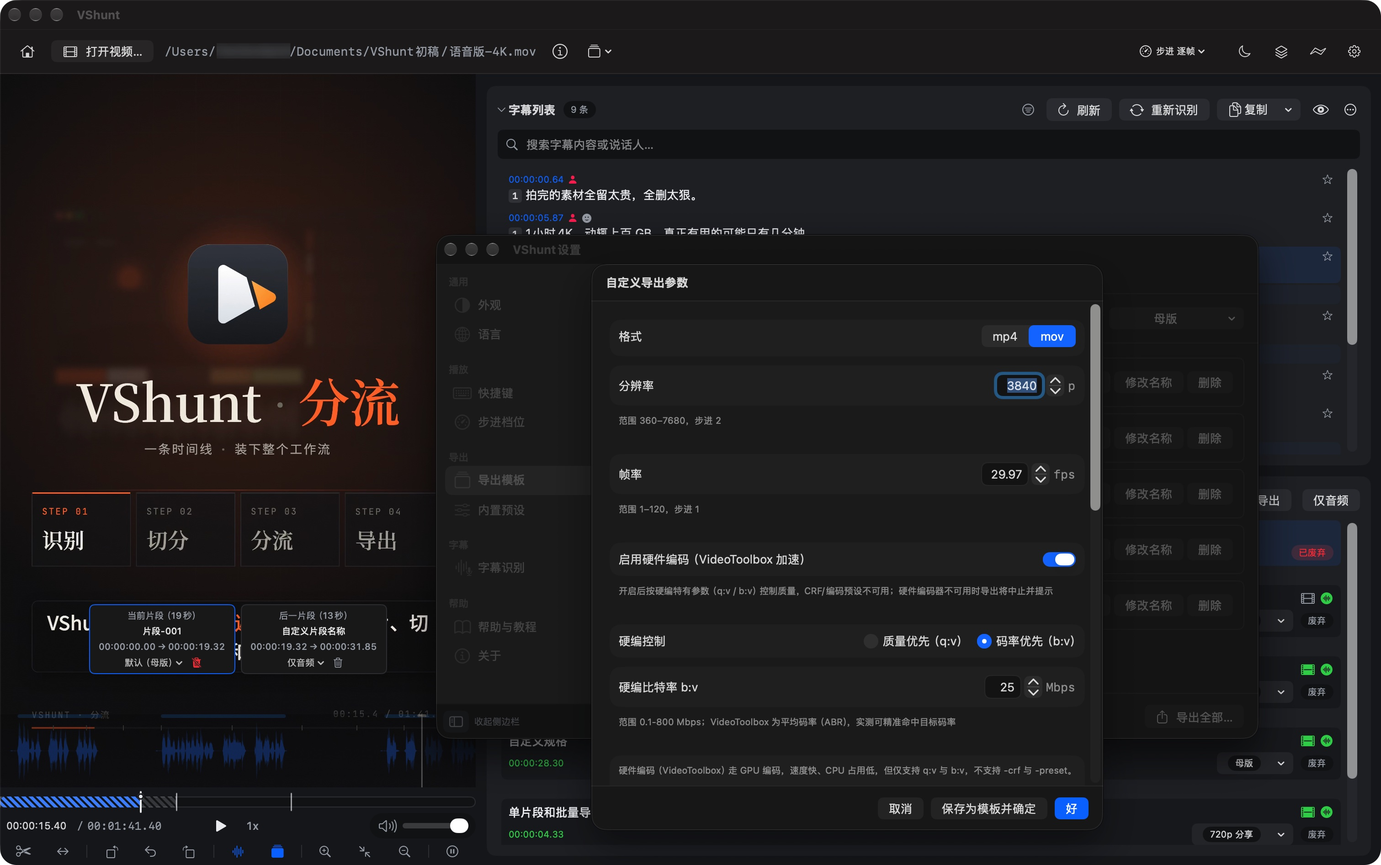
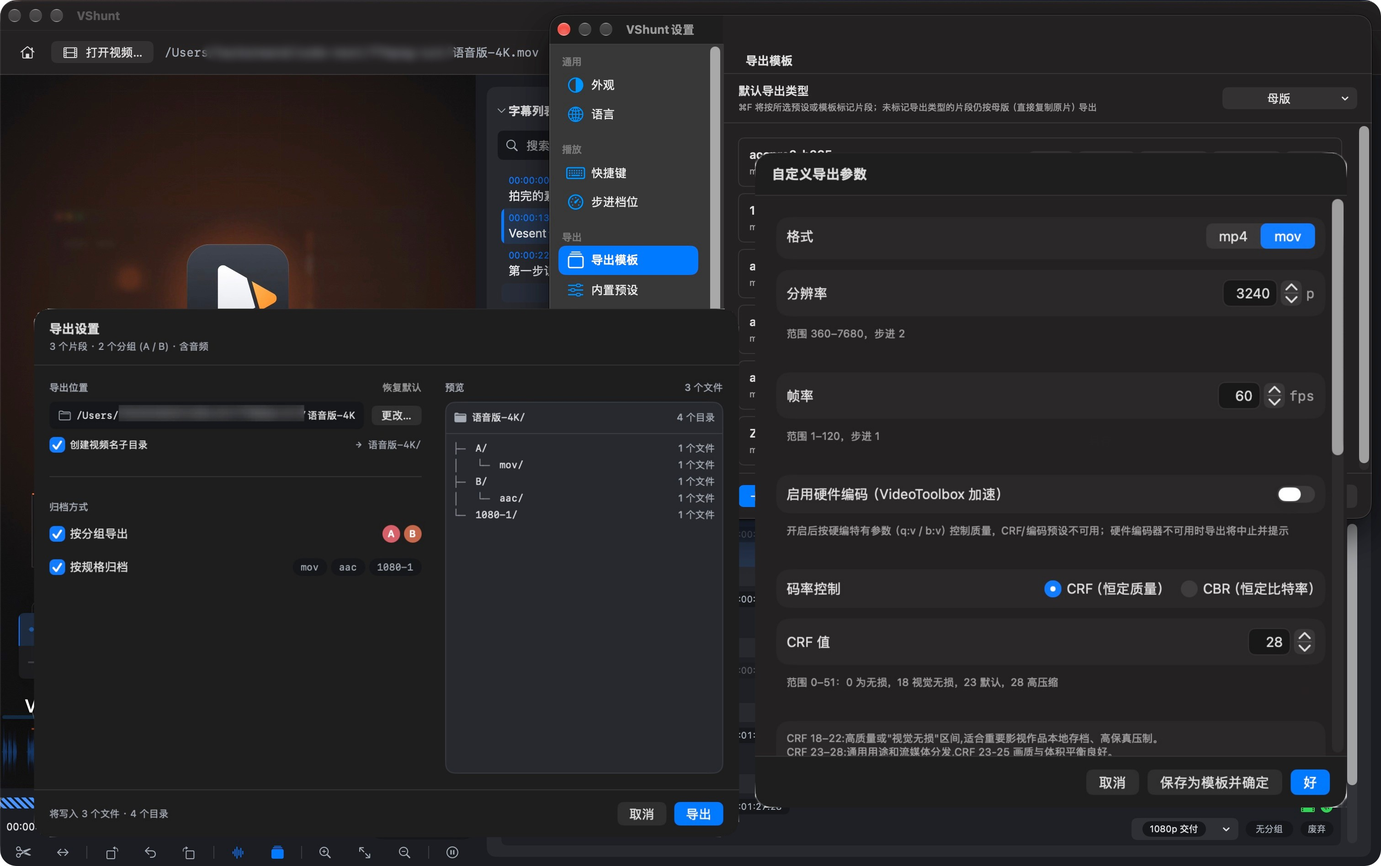
docs: 新增分组归档功能说明并更新文档内容

diff --git a/index.html b/index.html
@@ -4,17 +4,17 @@
 <meta charset="utf-8">
 <meta name="viewport" content="width=device-width, initial-scale=1">
 <title>VShunt 分流 — 视频无损剪辑与素材分流，批量剪辑导出与压缩，节省存储空间</title>
-<meta name="description" content="VShunt 是原生视频无损剪辑与素材分流工具：一条时间线完成选片、切分，片段可按原片无损复制（不重新编码）、压缩到 4K/1080p 或仅提取音频，一次批量导出后即可放心删除原片，节省硬盘空间。支持字幕识别、时间线波形、自定义转码参数与导出模板，下载即用。">
-<meta name="keywords" content="无损剪辑,无损剪切,视频无损剪辑,不重新编码,视频素材分流,批量剪辑,批量导出,视频压缩,提取音频,删除原片,节省硬盘空间,视频剪辑工具,ffmpeg 图形界面,字幕识别">
+<meta name="description" content="VShunt 是原生视频无损剪辑与素材分流工具：一条时间线完成选片、切分，片段可按原片无损复制（不重新编码）、压缩到 4K/1080p 或仅提取音频。导出前先确认位置，可按 A–Z 分组、按规格自动建目录，一次批量导出后即可放心删除原片，节省硬盘空间。支持字幕识别、时间线波形、自定义转码参数与导出模板，下载即用。">
+<meta name="keywords" content="无损剪辑,无损剪切,视频无损剪辑,不重新编码,视频素材分流,批量剪辑,批量导出,视频压缩,提取音频,删除原片,节省硬盘空间,视频剪辑工具,ffmpeg 图形界面,字幕识别,导出归档,分组导出,自定义导出目录">
 <meta name="theme-color" content="#0c0c0d">
 <meta property="og:type" content="website">
 <meta property="og:site_name" content="VShunt 分流">
 <meta property="og:title" content="VShunt 分流 — 视频无损剪辑与素材分流，按需压缩、批量导出省存储">
-<meta property="og:description" content="原生无损剪辑工具：一条时间线完成选片、切分、转码与批量导出，原片直接复制不重新编码，原片即可放心删除，只为好片留空间。">
+<meta property="og:description" content="原生无损剪辑工具：一条时间线完成选片、切分、转码与批量导出，原片直接复制不重新编码；导出前确认位置，按 A–Z 分组与规格自动归档，原片即可放心删除，只为好片留空间。">
 <meta property="og:image" content="apple-touch-icon.png">
 <meta name="twitter:card" content="summary_large_image">
 <meta name="twitter:title" content="VShunt 分流 — 视频无损剪辑与素材分流，按需压缩、批量导出省存储">
-<meta name="twitter:description" content="原生无损剪辑工具：一条时间线完成选片、切分、转码与批量导出，原片直接复制不重新编码，原片即可放心删除，只为好片留空间。">
+<meta name="twitter:description" content="原生无损剪辑工具：一条时间线完成选片、切分、转码与批量导出，原片直接复制不重新编码；导出前确认位置，按 A–Z 分组与规格自动归档，原片即可放心删除，只为好片留空间。">
 <link rel="icon" href="favicon.ico" sizes="any">
 <link rel="apple-touch-icon" href="apple-touch-icon.png">
 <script>document.documentElement.className += ' js';</script>
@@ -382,6 +382,73 @@
   .tpl-card.new.on{opacity:1;transform:none;border-color:var(--mint)}
   .tpl-note{margin-top:18px;border-left:2px solid var(--vermilion);padding-left:12px;color:var(--bone-dim);font-size:12px}
   @media(max-width:860px){.export-grid{grid-template-columns:1fr}}
+
+  /* archive: export options + A-Z groups + spec folders */
+  .archive-grid{display:grid;grid-template-columns:1.16fr .84fr;gap:20px;align-items:stretch}
+  .archive-mock{border:1px solid var(--line);background:linear-gradient(180deg,#121214,#0d0d0f);display:flex;flex-direction:column;position:relative;overflow:hidden}
+  .archive-mock::before{content:"";position:absolute;inset:0;pointer-events:none;background:radial-gradient(90% 60% at 100% 0%,rgba(255,90,43,.08),transparent 60%)}
+  .am-bar{display:flex;justify-content:space-between;align-items:flex-end;gap:14px;padding:15px 18px 13px;border-bottom:1px solid var(--line-soft);position:relative;z-index:1}
+  .am-title{font-family:var(--serif);font-size:16px;font-weight:600;line-height:1.2}
+  .am-sum{font-family:var(--mono);font-size:8px;letter-spacing:.05em;color:var(--bone-faint);margin-top:5px}
+  .am-badge{font-family:var(--mono);font-size:8px;letter-spacing:.1em;color:var(--bone-faint);border:1px solid var(--line);padding:3px 6px;flex:none}
+  .am-body{display:grid;grid-template-columns:1.1fr .9fr;flex:1;position:relative;z-index:1}
+  .am-left{padding:14px 15px;border-right:1px solid var(--line-soft);display:flex;flex-direction:column;gap:14px;min-width:0}
+  .am-label{display:flex;justify-content:space-between;align-items:center;gap:8px;font-family:var(--mono);font-size:8px;letter-spacing:.12em;color:var(--bone-faint);margin-bottom:7px;text-transform:uppercase}
+  .am-link{color:var(--vermilion);letter-spacing:.04em;flex:none}
+  .am-path{display:flex;align-items:center;gap:6px;padding:7px 8px;border:1px solid var(--line);background:#141416;font-family:var(--mono);font-size:8.5px;color:var(--bone-dim);min-width:0}
+  .am-path .pth{overflow:hidden;text-overflow:ellipsis;white-space:nowrap}
+  .am-path b{margin-left:auto;flex:none;font-weight:400;font-size:7.5px;color:var(--vermilion);border:1px solid rgba(255,90,43,.4);padding:2px 5px;letter-spacing:.04em}
+  .am-row{display:flex;align-items:center;gap:7px;font-size:10px;color:var(--bone-dim);padding:5px 0;min-width:0}
+  .am-check{width:11px;height:11px;flex:none;border:1px solid var(--line);display:grid;place-items:center;font-size:7px;color:#140b08;line-height:1}
+  .am-check.on{background:var(--vermilion);border-color:var(--vermilion)}
+  .am-row .tail{margin-left:auto;flex:none;font-family:var(--mono);font-size:7.5px;color:var(--bone-faint)}
+  .am-chips{margin-left:auto;display:flex;gap:4px;flex:none}
+  .am-chip{width:16px;height:16px;display:grid;place-items:center;font-family:var(--mono);font-size:7.5px;border:1px solid var(--line);color:var(--bone-dim)}
+  .am-chip.a{color:#ff7a5c;border-color:rgba(255,122,92,.5);background:rgba(255,122,92,.1)}
+  .am-chip.b{color:#57cfd6;border-color:rgba(87,207,214,.5);background:rgba(87,207,214,.1)}
+  .am-spec{margin-left:auto;display:flex;gap:4px;flex:none;flex-wrap:wrap;justify-content:flex-end}
+  .am-spec span{font-family:var(--mono);font-size:7.5px;color:var(--bone-dim);border:1px solid var(--line);padding:2px 5px;letter-spacing:.02em}
+  .am-hint{margin-top:auto;padding-top:8px;border-top:1px solid var(--line-soft);font-size:8px;line-height:1.65;color:var(--bone-faint)}
+  .am-preview{padding:14px 15px;background:#0f0f11;display:flex;flex-direction:column;gap:9px;min-width:0}
+  .am-tree{display:flex;flex-direction:column;gap:3px;font-family:var(--mono);font-size:8.5px;color:var(--bone-dim)}
+  .am-tree .trow{display:flex;align-items:center;gap:5px;min-width:0;white-space:nowrap}
+  .am-tree .nm{overflow:hidden;text-overflow:ellipsis}
+  .am-tree .ct{margin-left:auto;flex:none;color:var(--bone-faint);font-size:7.5px}
+  .am-tree .root{color:var(--bone)}
+  .am-tree .d1{padding-left:11px}
+  .am-tree .d2{padding-left:22px}
+  .am-tree .d1::before,.am-tree .d2::before{content:"▸";color:var(--bone-faint);font-size:7px}
+  .am-tree .d1::before{content:"▾"}
+  .am-note{margin-top:auto;padding-top:7px;border-top:1px solid var(--line-soft);font-size:8px;line-height:1.6;color:var(--bone-faint)}
+  .am-foot{display:flex;justify-content:space-between;align-items:center;gap:10px;padding:11px 16px;border-top:1px solid var(--line-soft);background:#0c0c0d;position:relative;z-index:1}
+  .am-count{font-family:var(--mono);font-size:8px;letter-spacing:.05em;color:var(--bone-faint)}
+  .am-btns{display:flex;gap:6px;flex:none}
+  .am-btn{font-family:var(--mono);font-size:8px;letter-spacing:.06em;padding:5px 9px;border:1px solid var(--line);color:var(--bone-dim)}
+  .am-btn.on{background:var(--vermilion);border-color:var(--vermilion);color:#140b08}
+  .archive-points{display:flex;flex-direction:column;gap:1px;background:var(--line-soft);border:1px solid var(--line-soft)}
+  .archive-point{background:var(--ink);padding:20px 22px;flex:1;transition:background .25s}
+  .archive-point:hover{background:#121214}
+  .archive-point .no{font-family:var(--mono);font-size:9px;letter-spacing:.14em;color:var(--vermilion)}
+  .archive-point h3{font-family:var(--serif);font-size:19px;margin:7px 0 7px;font-weight:600;line-height:1.35}
+  .archive-point p{margin:0;font-size:12.5px;line-height:1.7;color:var(--bone-dim)}
+  .archive-point code{font-family:var(--mono);font-size:.86em;color:var(--bone);background:var(--ink-3);border:1px solid var(--line-soft);padding:1px 4px;white-space:nowrap}
+  .group-strip{margin-top:20px;border:1px solid var(--line);background:var(--ink-2);padding:16px 20px;display:flex;align-items:center;gap:5px;flex-wrap:wrap}
+  .gs-label{font-family:var(--mono);font-size:8.5px;letter-spacing:.14em;color:var(--bone-faint);margin-right:8px;flex:none}
+  .gchip{width:25px;height:25px;border-radius:3px;display:grid;place-items:center;font-family:var(--mono);font-size:10px;border:1px solid;flex:none}
+  .gs-note{font-size:11px;line-height:1.6;color:var(--bone-faint);margin-left:auto;flex:none;max-width:340px;padding-left:14px}
+  @media(max-width:980px){
+    .archive-grid{grid-template-columns:1fr}
+    .archive-points{flex-direction:row}
+    .archive-point{flex:1 1 0}
+  }
+  @media(max-width:720px){
+    .archive-points{flex-direction:column}
+    .gs-note{margin-left:0;flex-basis:100%;max-width:none;padding-left:0}
+  }
+  @media(max-width:560px){
+    .am-body{grid-template-columns:1fr}
+    .am-left{border-right:0;border-bottom:1px solid var(--line-soft)}
+  }
   /* ---------- sections ---------- */
   section{padding:110px 0;border-bottom:1px solid var(--line-soft)}
   .sec-head{display:grid;grid-template-columns:148px 1fr;gap:24px;margin-bottom:64px;align-items:start}
@@ -648,6 +715,7 @@
   <div class="navlinks" id="navLinks">
     <a href="#workflow">工作流</a>
     <a href="#export">导出</a>
+    <a href="#archive">归档</a>
     <a href="#highlights">亮点</a>
     <a href="#subtitle">字幕</a>
     <a href="#faq">常见问题</a>
@@ -754,8 +822,8 @@
 
 <div class="marquee" aria-hidden="true">
   <div class="marquee-inner">
-    <span>帧级切分</span><i>/</i><span>时间线 + 波形</span><i>/</i><span>双后端字幕</span><i>/</i><span>批量代理</span><i>/</i><span>导出模板</span><i>/</i><span>按需分流</span><i>/</i><span>多语言支持</span><i>/</i>
-    <span>帧级切分</span><i>/</i><span>时间线 + 波形</span><i>/</i><span>双后端字幕</span><i>/</i><span>批量代理</span><i>/</i><span>导出模板</span><i>/</i><span>按需分流</span><i>/</i><span>多语言支持</span><i>/</i>
+    <span>帧级切分</span><i>/</i><span>时间线 + 波形</span><i>/</i><span>双后端字幕</span><i>/</i><span>批量代理</span><i>/</i><span>导出模板</span><i>/</i><span>分组归档</span><i>/</i><span>按需分流</span><i>/</i><span>多语言支持</span><i>/</i>
+    <span>帧级切分</span><i>/</i><span>时间线 + 波形</span><i>/</i><span>双后端字幕</span><i>/</i><span>批量代理</span><i>/</i><span>导出模板</span><i>/</i><span>分组归档</span><i>/</i><span>按需分流</span><i>/</i><span>多语言支持</span><i>/</i>
   </div>
 </div>
 
@@ -931,10 +999,117 @@
   </div>
 </section>
 
+<section id="archive">
+  <div class="wrap">
+    <div class="sec-head reveal">
+      <div class="sec-no">04 / ARCHIVE</div>
+      <div>
+        <h2>导完就归好，<br>交付不用再整理。</h2>
+        <p>导出前先看一眼最终目录：这次会生成哪些文件夹、每个文件夹放几个文件，确认无误再开始。片段可以按 A–Z 分组，导出时同组自动收进同一个文件夹；不同规格也各归各的子目录，导完不用再手动搬。</p>
+      </div>
+    </div>
+
+    <div class="archive-grid reveal">
+      <div class="archive-mock" aria-label="导出设置弹框示意">
+        <div class="am-bar">
+          <div>
+            <div class="am-title">导出设置</div>
+            <div class="am-sum">19 个片段 · 2 个分组（A / B）· 含音频</div>
+          </div>
+          <span class="am-badge">EXPORT</span>
+        </div>
+        <div class="am-body">
+          <div class="am-left">
+            <div>
+              <div class="am-label"><span>导出位置</span><span class="am-link">恢复默认</span></div>
+              <div class="am-path"><span class="pth">/Video/shoot</span><b>更改…</b></div>
+              <div class="am-row"><span class="am-check on">✓</span>创建视频名子目录<span class="tail">→ shoot/</span></div>
+            </div>
+            <div>
+              <div class="am-label"><span>归档方式</span><span>按需开启</span></div>
+              <div class="am-row"><span class="am-check on">✓</span>按分组导出<span class="am-chips"><span class="am-chip a">A</span><span class="am-chip b">B</span></span></div>
+              <div class="am-row"><span class="am-check on">✓</span>按规格归档<span class="am-spec"><span>mp4</span><span>2160-3</span><span>1080</span></span></div>
+            </div>
+            <div class="am-hint">分组开关会按当前内容自动判断；其它设置本次使用期间记住。</div>
+          </div>
+          <div class="am-preview">
+            <div class="am-label"><span>预览</span><span>19 个文件</span></div>
+            <div class="am-tree">
+              <div class="trow root"><span class="nm">shoot/</span><span class="ct">6 个目录</span></div>
+              <div class="trow d1"><span class="nm">A/</span><span class="ct">12</span></div>
+              <div class="trow d2"><span class="nm">2160-3/</span><span class="ct">6</span></div>
+              <div class="trow d2"><span class="nm">1080/</span><span class="ct">6</span></div>
+              <div class="trow d1"><span class="nm">B/</span><span class="ct">7</span></div>
+              <div class="trow d2"><span class="nm">1080/</span><span class="ct">4</span></div>
+              <div class="trow d2"><span class="nm">mp4/</span><span class="ct">3</span></div>
+            </div>
+            <div class="am-note">按本次实际导出的内容统计，没分组的片段直接放在根目录。</div>
+          </div>
+        </div>
+        <div class="am-foot">
+          <span class="am-count">将写入 19 个文件 · 6 个目录</span>
+          <span class="am-btns"><span class="am-btn">取消</span><span class="am-btn on">导出</span></span>
+        </div>
+      </div>
+
+      <div class="archive-points">
+        <article class="archive-point">
+          <span class="no">A / 先确认，再导出</span>
+          <h3>导出前，位置先看清</h3>
+          <p>批量导出、单段视频、单段音频、整片音频提取，都会先问一句「存到哪、怎么分」。位置可以另选，也能一键恢复默认；这次选的目录，本次使用期间一直有效，不用每次重选。</p>
+        </article>
+        <article class="archive-point">
+          <span class="no">B / 26 个分组</span>
+          <h3>片段归组，字母即目录</h3>
+          <p>给片段贴个 A–Z 的字母标签，比如 A 是客户交付、B 是素材备份；点一下就能改，也能直接按字母键选。导出时同组自动进同一个文件夹，标签颜色和文件夹名都能改成自己习惯的叫法。</p>
+        </article>
+        <article class="archive-point">
+          <span class="no">C / 按规格归档</span>
+          <h3>每条规格，各进各的目录</h3>
+          <p>母版、音频和不同分辨率各建一个文件夹，名字按格式或分辨率来（比如 <code>2160-3</code>、<code>1080</code>），一眼知道里面是什么。改某个文件夹的名字，也不会把其它文件夹跟着改乱。</p>
+        </article>
+      </div>
+    </div>
+
+    <div class="group-strip reveal" aria-label="26 个分组色板示意">
+      <span class="gs-label">A – Z / 26 GROUPS</span>
+      <span class="gchip" style="color:#ff7a5c;border-color:rgba(255,122,92,.5);background:rgba(255,122,92,.1)">A</span>
+      <span class="gchip" style="color:#ffa14f;border-color:rgba(255,161,79,.5);background:rgba(255,161,79,.1)">B</span>
+      <span class="gchip" style="color:#f2c14e;border-color:rgba(242,193,78,.5);background:rgba(242,193,78,.1)">C</span>
+      <span class="gchip" style="color:#d7d76a;border-color:rgba(215,215,106,.5);background:rgba(215,215,106,.1)">D</span>
+      <span class="gchip" style="color:#b8e986;border-color:rgba(184,233,134,.5);background:rgba(184,233,134,.1)">E</span>
+      <span class="gchip" style="color:#86e0a0;border-color:rgba(134,224,160,.5);background:rgba(134,224,160,.1)">F</span>
+      <span class="gchip" style="color:#5fd6b5;border-color:rgba(95,214,181,.5);background:rgba(95,214,181,.1)">G</span>
+      <span class="gchip" style="color:#57cfd6;border-color:rgba(87,207,214,.5);background:rgba(87,207,214,.1)">H</span>
+      <span class="gchip" style="color:#58c0f0;border-color:rgba(88,192,240,.5);background:rgba(88,192,240,.1)">I</span>
+      <span class="gchip" style="color:#6aa9f7;border-color:rgba(106,169,247,.5);background:rgba(106,169,247,.1)">J</span>
+      <span class="gchip" style="color:#8b96f5;border-color:rgba(139,150,245,.5);background:rgba(139,150,245,.1)">K</span>
+      <span class="gchip" style="color:#a78bf0;border-color:rgba(167,139,240,.5);background:rgba(167,139,240,.1)">L</span>
+      <span class="gchip" style="color:#c48ae8;border-color:rgba(196,138,232,.5);background:rgba(196,138,232,.1)">M</span>
+      <span class="gchip" style="color:#e08ad6;border-color:rgba(224,138,214,.5);background:rgba(224,138,214,.1)">N</span>
+      <span class="gchip" style="color:#ef86bd;border-color:rgba(239,134,189,.5);background:rgba(239,134,189,.1)">O</span>
+      <span class="gchip" style="color:#f57fa4;border-color:rgba(245,127,164,.5);background:rgba(245,127,164,.1)">P</span>
+      <span class="gchip" style="color:#ff8f92;border-color:rgba(255,143,146,.5);background:rgba(255,143,146,.1)">Q</span>
+      <span class="gchip" style="color:#e9a06b;border-color:rgba(233,160,107,.5);background:rgba(233,160,107,.1)">R</span>
+      <span class="gchip" style="color:#c9b26b;border-color:rgba(201,178,107,.5);background:rgba(201,178,107,.1)">S</span>
+      <span class="gchip" style="color:#9fc46b;border-color:rgba(159,196,107,.5);background:rgba(159,196,107,.1)">T</span>
+      <span class="gchip" style="color:#7cc9a0;border-color:rgba(124,201,160,.5);background:rgba(124,201,160,.1)">U</span>
+      <span class="gchip" style="color:#7fc4c9;border-color:rgba(127,196,201,.5);background:rgba(127,196,201,.1)">V</span>
+      <span class="gchip" style="color:#7fb3e8;border-color:rgba(127,179,232,.5);background:rgba(127,179,232,.1)">W</span>
+      <span class="gchip" style="color:#a3a7ef;border-color:rgba(163,167,239,.5);background:rgba(163,167,239,.1)">X</span>
+      <span class="gchip" style="color:#c9a3e8;border-color:rgba(201,163,232,.5);background:rgba(201,163,232,.1)">Y</span>
+      <span class="gchip" style="color:#e3a0c7;border-color:rgba(227,160,199,.5);background:rgba(227,160,199,.1)">Z</span>
+      <span class="gs-note">颜色和文件夹名都能改；工程在 macOS 与 Windows 之间互传，也不会生成对方打不开的文件夹。</span>
+    </div>
+
+    <p class="problem-close reveal">同一段素材，不同用途落到不同目录：母版、4K、1080p、纯音频各归各位。导出完成的明细会标出分组字母，「打开目录」直达导出根目录——把整个文件夹交给对方，就是一次交付。</p>
+  </div>
+</section>
+
 <section id="highlights">
   <div class="wrap">
     <div class="sec-head reveal">
-      <div class="sec-no">04 / HIGHLIGHTS</div>
+      <div class="sec-no">05 / HIGHLIGHTS</div>
       <div>
         <h2>精确，不靠放大时间线。</h2>
         <p>筛片时要能快速浏览，剪辑时要能精确停顿。在 VShunt 里，每一步走多远由你决定：时间框按时、分、秒、厘秒逐段步进，画面上滚动则按档位步进；鼠标和键盘都有对应的操作。</p>
@@ -1019,7 +1194,7 @@
 <section class="perf-band" id="performance">
   <div class="wrap">
     <div class="perf-head reveal">
-      <div class="mono" style="color:var(--vermilion);margin-bottom:18px">05 / NATIVE · NOT A WEB VIEW</div>
+      <div class="mono" style="color:var(--vermilion);margin-bottom:18px">06 / NATIVE · NOT A WEB VIEW</div>
       <h2>不是套壳。<br>是原生播放器。</h2>
       <p>macOS 版直接跑在 AVFoundation 与 AppKit 上，Windows 版基于 libmpv 渲染，两端都不经过浏览器内核。拖动、逐帧、缩放都是原生级的手感，标准只有一个：像专业播放器一样跟手。</p>
     </div>
@@ -1047,7 +1222,7 @@
 <section id="features">
   <div class="wrap">
     <div class="sec-head reveal">
-      <div class="sec-no">06 / FEATURES</div>
+      <div class="sec-no">07 / FEATURES</div>
       <div>
         <h2>不是剪辑软件的<br>功能简化复刻版</h2>
         <p>而是把筛片、切分、导出一次跑完的粗剪工具：时间线、字幕、波形对着看，切分即分段；留下的按段设规格导出，删掉的不占硬盘。</p>
@@ -1061,7 +1236,7 @@
         <span class="num">F.01</span>
         <h3>分流只是起点，导出完全自由</h3>
         <p>分流不只决定留不留，还决定以什么规格留：需要后期空间的就源片复制，不涉及重新编码，画质无损，导出速度也极快；只需观看的压到合适的分辨率和码率；只要声音的单独提取音频。每一段都能单独设置规格、一次全部导出，无需像传统剪辑软件那样逐段重复处理。</p>
-        <div class="tags"><span class="tag">源片复制</span><span class="tag">按段设规格</span><span class="tag">纯音频提取</span></div>
+        <div class="tags"><span class="tag">源片复制</span><span class="tag">按段设规格</span><span class="tag">纯音频提取</span><span class="tag">A–Z 分组</span><span class="tag">规格归档</span></div>
       </article>
       <article class="card reveal">
         <span class="num">F.02</span>
@@ -1100,7 +1275,7 @@
 <section id="subtitle">
   <div class="wrap">
     <div class="sec-head reveal">
-      <div class="sec-no">07 / CAPTIONS</div>
+      <div class="sec-no">08 / CAPTIONS</div>
       <div>
         <h2>字幕可以上云，<br>也可以只留在本机。</h2>
         <p>字幕参考可在对话场景下提升筛片效率。云端识别更准更全；不想折腾账号和存储，本地识别也能直接用。两种结果共用同一套字幕工程，随时切换，自动对轴，支持多语言。</p>
@@ -1134,7 +1309,7 @@
 <section id="more-captions">
   <div class="wrap">
     <div class="sec-head reveal">
-      <div class="sec-no">08 / MORE WAYS</div>
+      <div class="sec-no">09 / MORE WAYS</div>
       <div>
         <h2>已有字幕，<br>或者想用自己的工具？</h2>
         <p>字幕不一定要在 VShunt 里识别，结果都能导进来，和本地、云端识别一样用于选片。</p>
@@ -1168,7 +1343,7 @@
 <section id="install">
   <div class="wrap">
     <div class="sec-head reveal">
-      <div class="sec-no">09 / INSTALL</div>
+      <div class="sec-no">10 / INSTALL</div>
       <div>
         <h2>下载，安装，打开。</h2>
         <p>解码与编码能力已经打包进 App，不需要 Homebrew，也不需要额外的命令行工具。</p>
@@ -1207,7 +1382,7 @@
 <section id="platforms">
   <div class="wrap">
     <div class="sec-head reveal">
-      <div class="sec-no">10 / PLATFORMS</div>
+      <div class="sec-no">11 / PLATFORMS</div>
       <div>
         <h2>两个平台，<br>同一套分流逻辑。</h2>
         <p>VShunt 的体验建立在帧级 seek、波形实时渲染和系统级快捷键上。两端都是原生实现：macOS 版走系统框架，Windows 版基于 libmpv 渲染，都不把界面套进浏览器壳里。</p>
@@ -1309,7 +1484,7 @@
 <section id="faq">
   <div class="wrap">
     <div class="sec-head reveal">
-      <div class="sec-no">11 / FAQ</div>
+      <div class="sec-no">12 / FAQ</div>
       <div><h2>几个常见问题。</h2></div>
     </div>
     <div class="reveal">
@@ -1327,7 +1502,7 @@
       </details>
       <details>
         <summary>工程文件和导出结果保存在哪里？</summary>
-        <p>都放在源视频旁边，方便一起搬移和备份。工程数据在源视频同目录的 <code>vshunt-data/&lt;视频名&gt;/</code>：<code>project.json</code> 保存切割点、片段命名与导出标记，同目录还有字幕和波形缓存；导出结果在源视频同目录的 <code>&lt;视频名&gt;/</code> 文件夹，按片段名称与时间戳命名，不会混进源素材。把视频和这两个目录一起复制，就能在另一台机器上接着剪。导出位置目前固定跟随源视频，后续会提供自定义导出目录。</p>
+        <p>都放在源视频旁边，方便一起搬移和备份。工程数据在源视频同目录的 <code>vshunt-data/&lt;视频名&gt;/</code>：<code>project.json</code> 保存切割点、片段命名、分组与导出标记，同目录还有字幕和波形缓存；导出结果默认在源视频同目录的 <code>&lt;视频名&gt;/</code> 文件夹，按片段名称与时间戳命名，不会混进源素材。每次导出片段或提取音频前都会弹出「导出设置」，可以另选导出位置、决定是否按 A–Z 分组或按导出规格自动建子目录，目录树在导出前就能预览。把视频和这两个目录一起复制，就能在另一台机器上接着剪。</p>
       </details>
       <details>
         <summary>必须配置 API Key 才能用吗？</summary>

diff --git a/README.en.md b/README.en.md
@@ -4,7 +4,7 @@
 
 > VShunt · a footage router — you don't have to keep it all, and you don't have to delete it all.
 
-VShunt is a native rough-cut tool for creators with piles of 4K / Log footage and a nearly full drive, available for macOS and Windows: watch and cut as you go, give each segment its own export spec, and skip per-segment timelines and per-segment exports — one timeline carries the whole workflow. Both builds are native, with no embedded browser engine, and work out of the box.
+VShunt is a native lossless cutting tool for creators with piles of 4K / Log footage and a nearly full drive, available for macOS and Windows: watch and cut as you go, give each segment its own export spec, and skip per-segment timelines and per-segment exports — one timeline carries the whole workflow. Both builds are native, with no embedded browser engine, and work out of the box.
 
 [![Platform](https://img.shields.io/badge/platform-macOS%20%7C%20Windows-black)](https://github.com/timehijack/VShunt/releases)
 [![Built with](https://img.shields.io/badge/built%20with-Swift%20%7C%20C%2B%2B-orange)](https://github.com/timehijack/VShunt)
@@ -48,6 +48,7 @@ VShunt collapses that into one pass: watch, cut and route along a single timelin
 - **Lossless cutting** — masters use stream copy, with no re-encode: identical quality, extremely fast export.
 - **Per-segment specs** — set container (MP4 / MOV), resolution, frame rate, rate control (CRF / constant bitrate), encoding speed, hardware acceleration and metadata retention per segment. Audio is copied from the source. Codec follows the source: H.264 in, H.264 out; HEVC in, HEVC out.
 - **Presets and templates** — six built-in presets (source-resolution high quality / smaller file, 4K, 1080p, 720p, 480p); save tuned settings as reusable templates and import or export them as JSON.
+- **Groups and archiving** — tag segments with an A–Z letter (A for client delivery, B for archive, and so on); at export, segments in the same group land in the same folder, and each spec gets its own subfolder. You see the final folder tree and file counts before exporting, so there is no manual sorting afterwards. Letter colors and folder names are yours to rename.
 - **Arbitrary ffmpeg arguments** — append custom arguments in advanced options, with a command preview before export.
 - **Timeline and waveform** — Canvas-drawn timeline, `Cmd + scroll` to zoom, playhead follow, with subtitle speech regions drawn onto the waveform.
 - **Frame-accurate stepping** — the time field steps by hour, minute, second and centisecond: scroll over the segment under the cursor, or select it and use `↑` `↓` with `Tab` to switch fields, carrying and borrowing across units. Scrolling on the video steps by one of five configurable amounts.
@@ -74,6 +75,10 @@ Precision does not come from zooming the timeline. Screening needs fast browsing
 ## Export
 
 Every segment carries its own export parameters, and every field is customizable.
+
+**Confirm where files go** — batch export, single-segment video, single-segment audio and full-length audio extraction all ask where to save and how to split, right before they start. Pick another location or restore the default in one click; the location you pick stays for this run, so you do not choose it again every time.
+
+**Groups and specs become folders** — with Group by segment on, segments in A and B go into folders A and B; with Archive by spec on, masters, audio and each resolution get their own subfolder named after the format or resolution (`2160-3`, `1080`), and renaming one never scrambles the others. The preview shows every folder and how many files it will hold, and a folder you cannot write to is flagged before export. Finished files show their group letter, and Open Folder takes you straight to the root.
 
 **Readable progress, estimable time remaining** — the export window shows the actual ffmpeg command, frame rate, bitrate, elapsed time and remaining time, so even long jobs tell you how much longer to wait.
 
@@ -119,7 +124,9 @@ Both builds are native, with playback and rendering bypassing any browser engine
 
 ## Open source
 
-VShunt is currently distributed as a binary; the app source and development documentation are not public yet. The public repository [timehijack/VShunt](https://github.com/timehijack/VShunt) hosts the installers, the website content and the third-party sources required for GPL compliance. Source for both platforms is being prepared and will be published there after code review and privacy review are complete.
+VShunt is currently distributed as a binary. The public repository [timehijack/VShunt](https://github.com/timehijack/VShunt) hosts the macOS / Windows installers, the website content and the third-party sources required for GPL compliance.
+
+Source for both platforms is being prepared and will be published in the same repository after code review and privacy review.
 
 ## Download
 
@@ -164,6 +171,8 @@ The app bundles ffmpeg 8.0.1 and the components below, built statically with a G
 | libvpx | 1.15.0 | BSD-3-Clause |
 | SVT-AV1 | 2.3.0 | BSD-3-Clause |
 
-Component versions, build configurations and license texts ship with each release. The complete corresponding source and build scripts are available in the [GitHub Release (ffmpeg-8.0.1)](https://github.com/timehijack/VShunt/releases/tag/ffmpeg-8.0.1); the bundled `NOTICE.txt` contains the GPLv2 §3(b) written offer (contact: `timehijack@qq.com`).
+Component versions, build configurations and license texts ship with each release. The complete corresponding source and build scripts are published in the [GitHub Release (ffmpeg-8.0.1)](https://github.com/timehijack/VShunt/releases/tag/ffmpeg-8.0.1).
 
-This project's own code is released under the **GNU General Public License v3.0**; see [LICENSE](LICENSE) for the full terms.
+## License
+
+[GPLv3](LICENSE)
